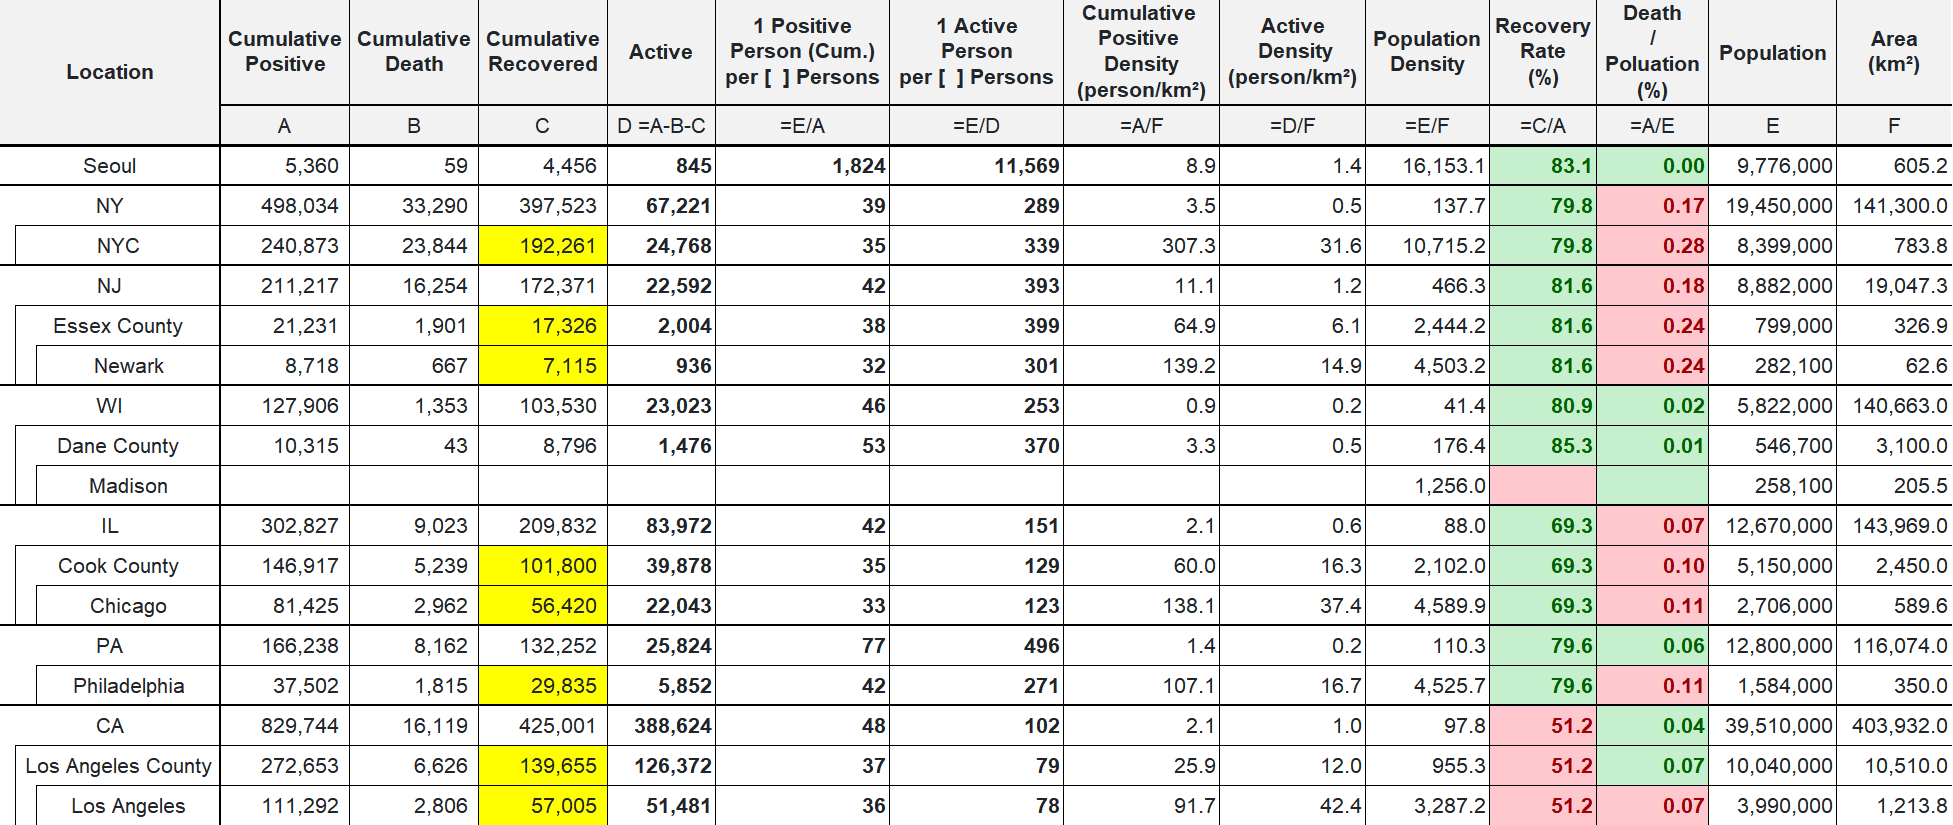
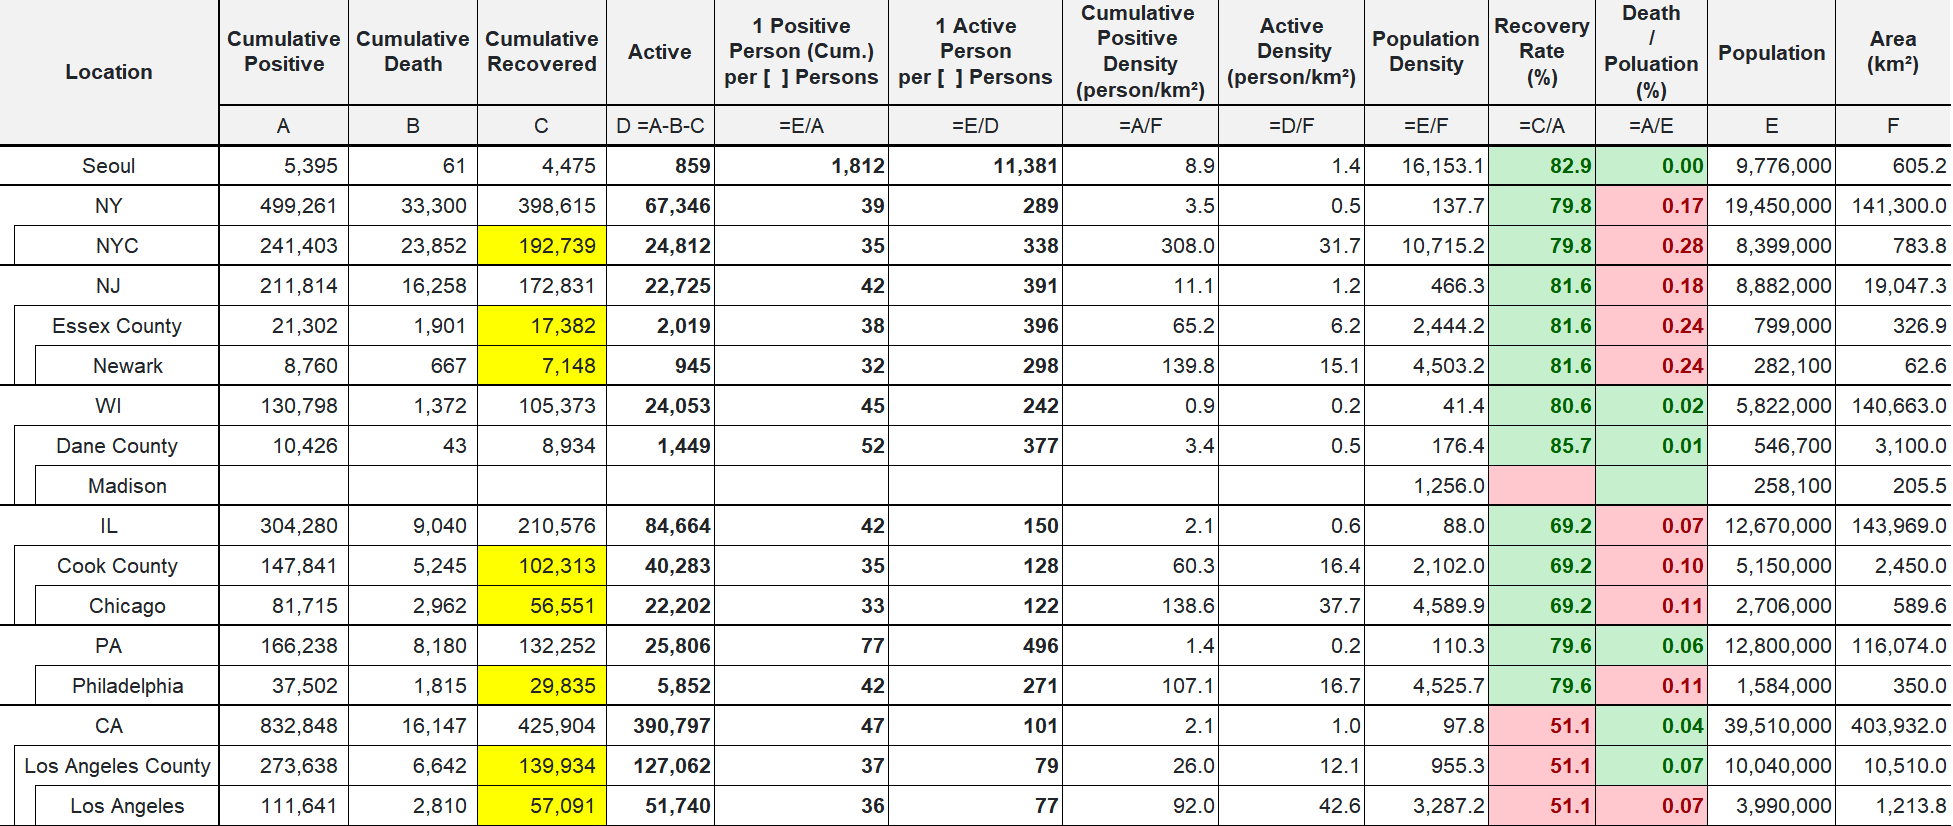
update 10/4 status

diff --git a/index.html b/index.html
@@ -19,7 +19,7 @@
 
 <body class="container-fluid">
 	<h1> CoronaV for Friends</h1>
-	<h2> Data updated at Oct 03 2020 EST 20:45</h2>
+	<h2> Data updated at Oct 04 2020 EST 21:25</h2>
 	<hr>
 	<main>
 		<div class="row">
